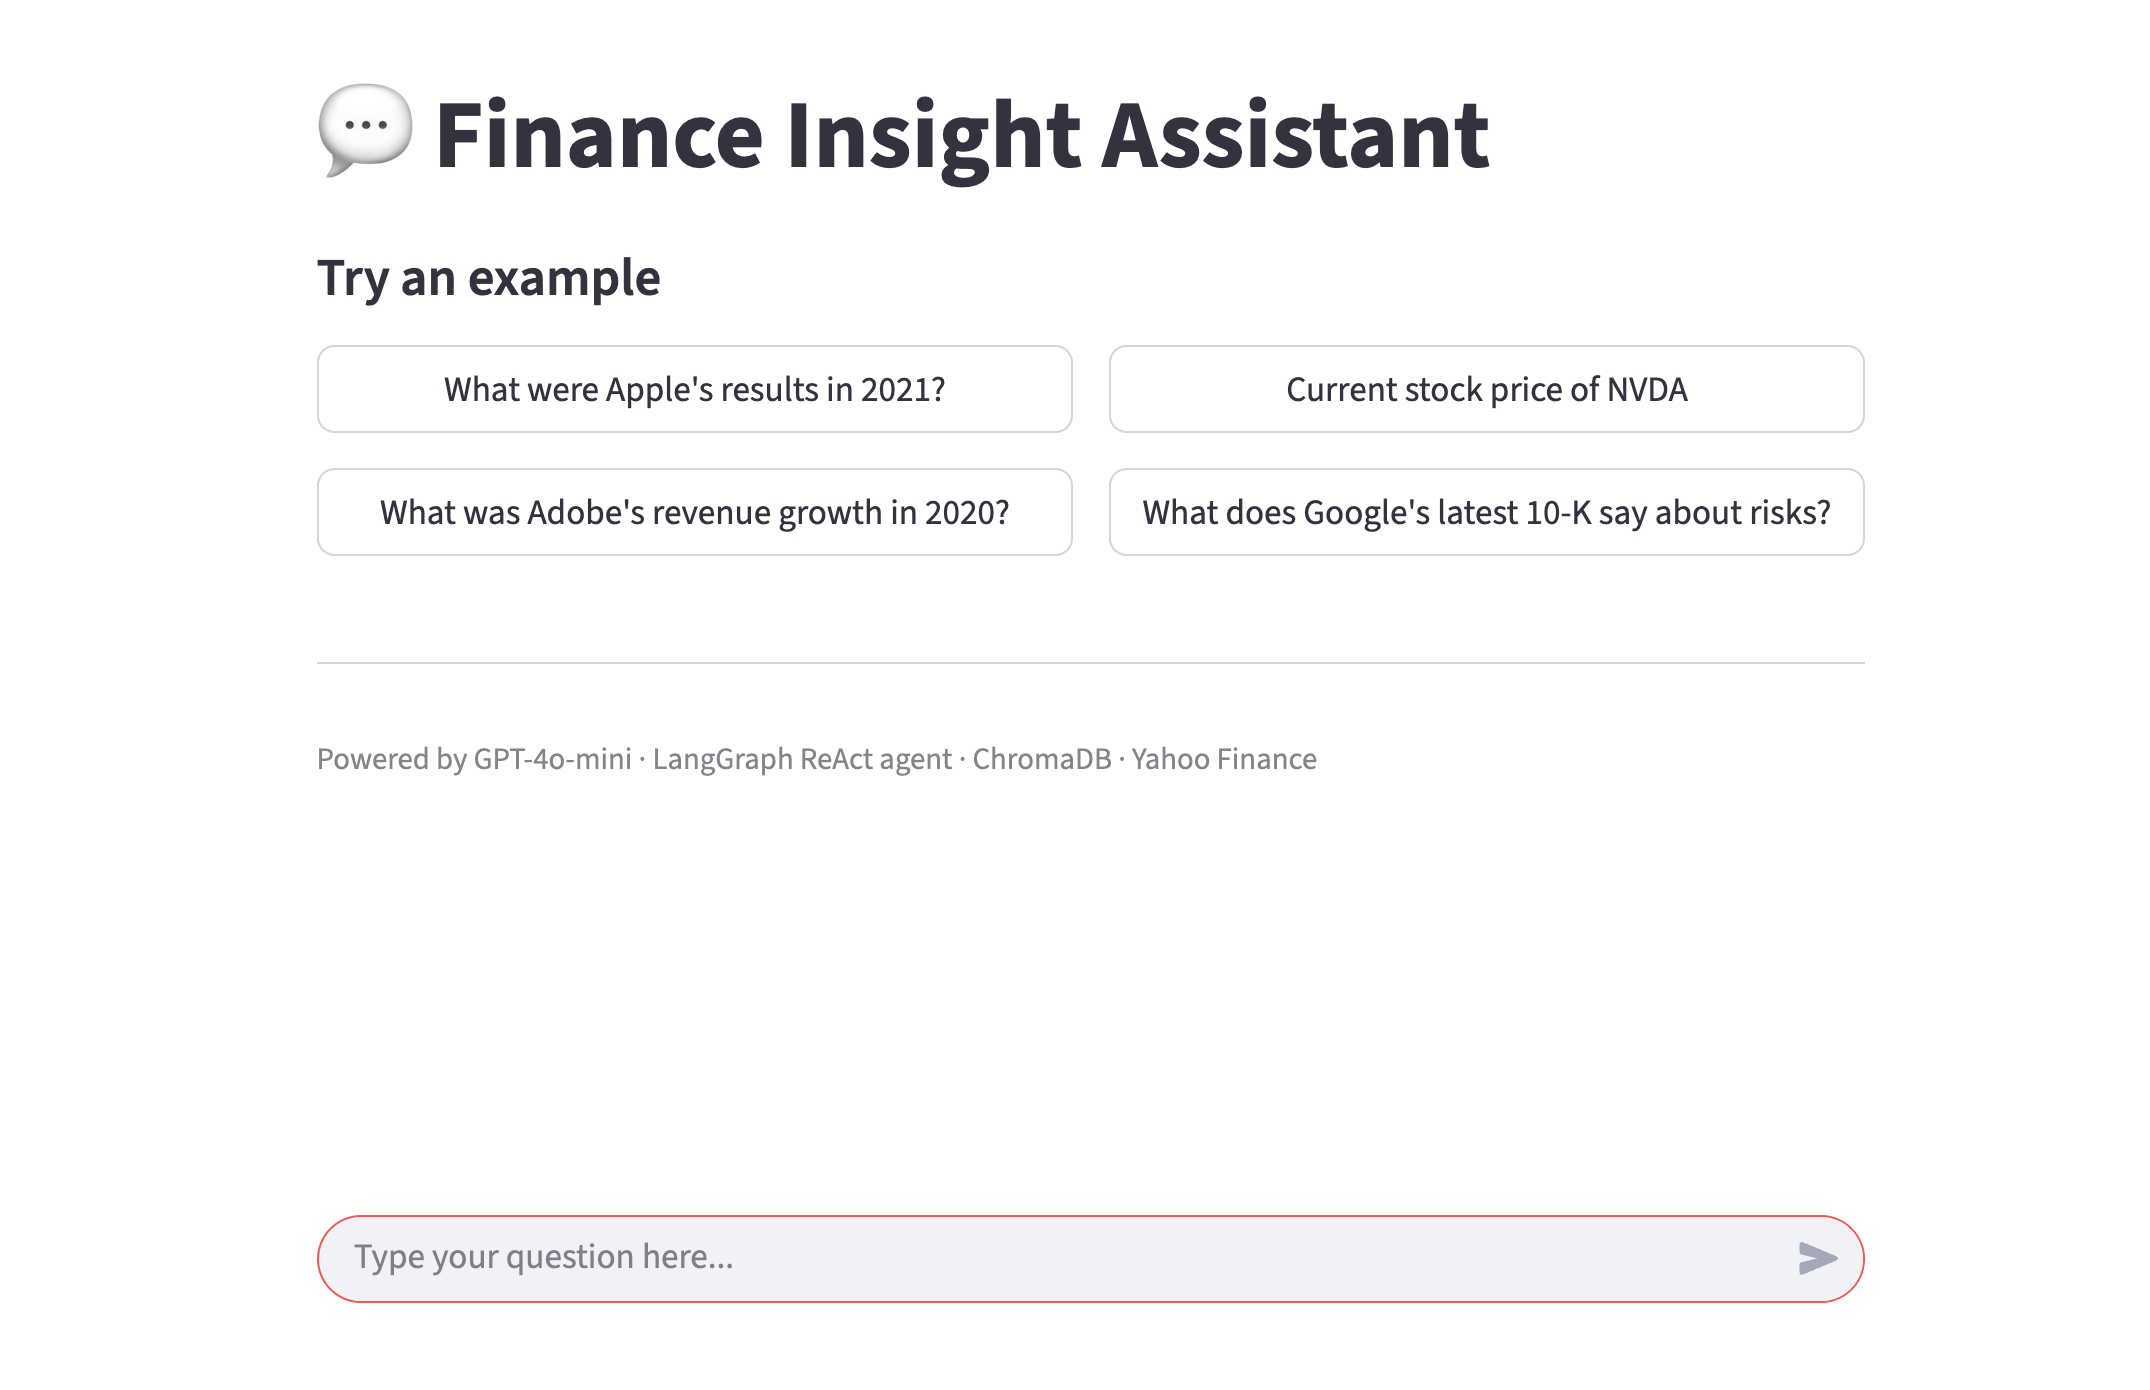
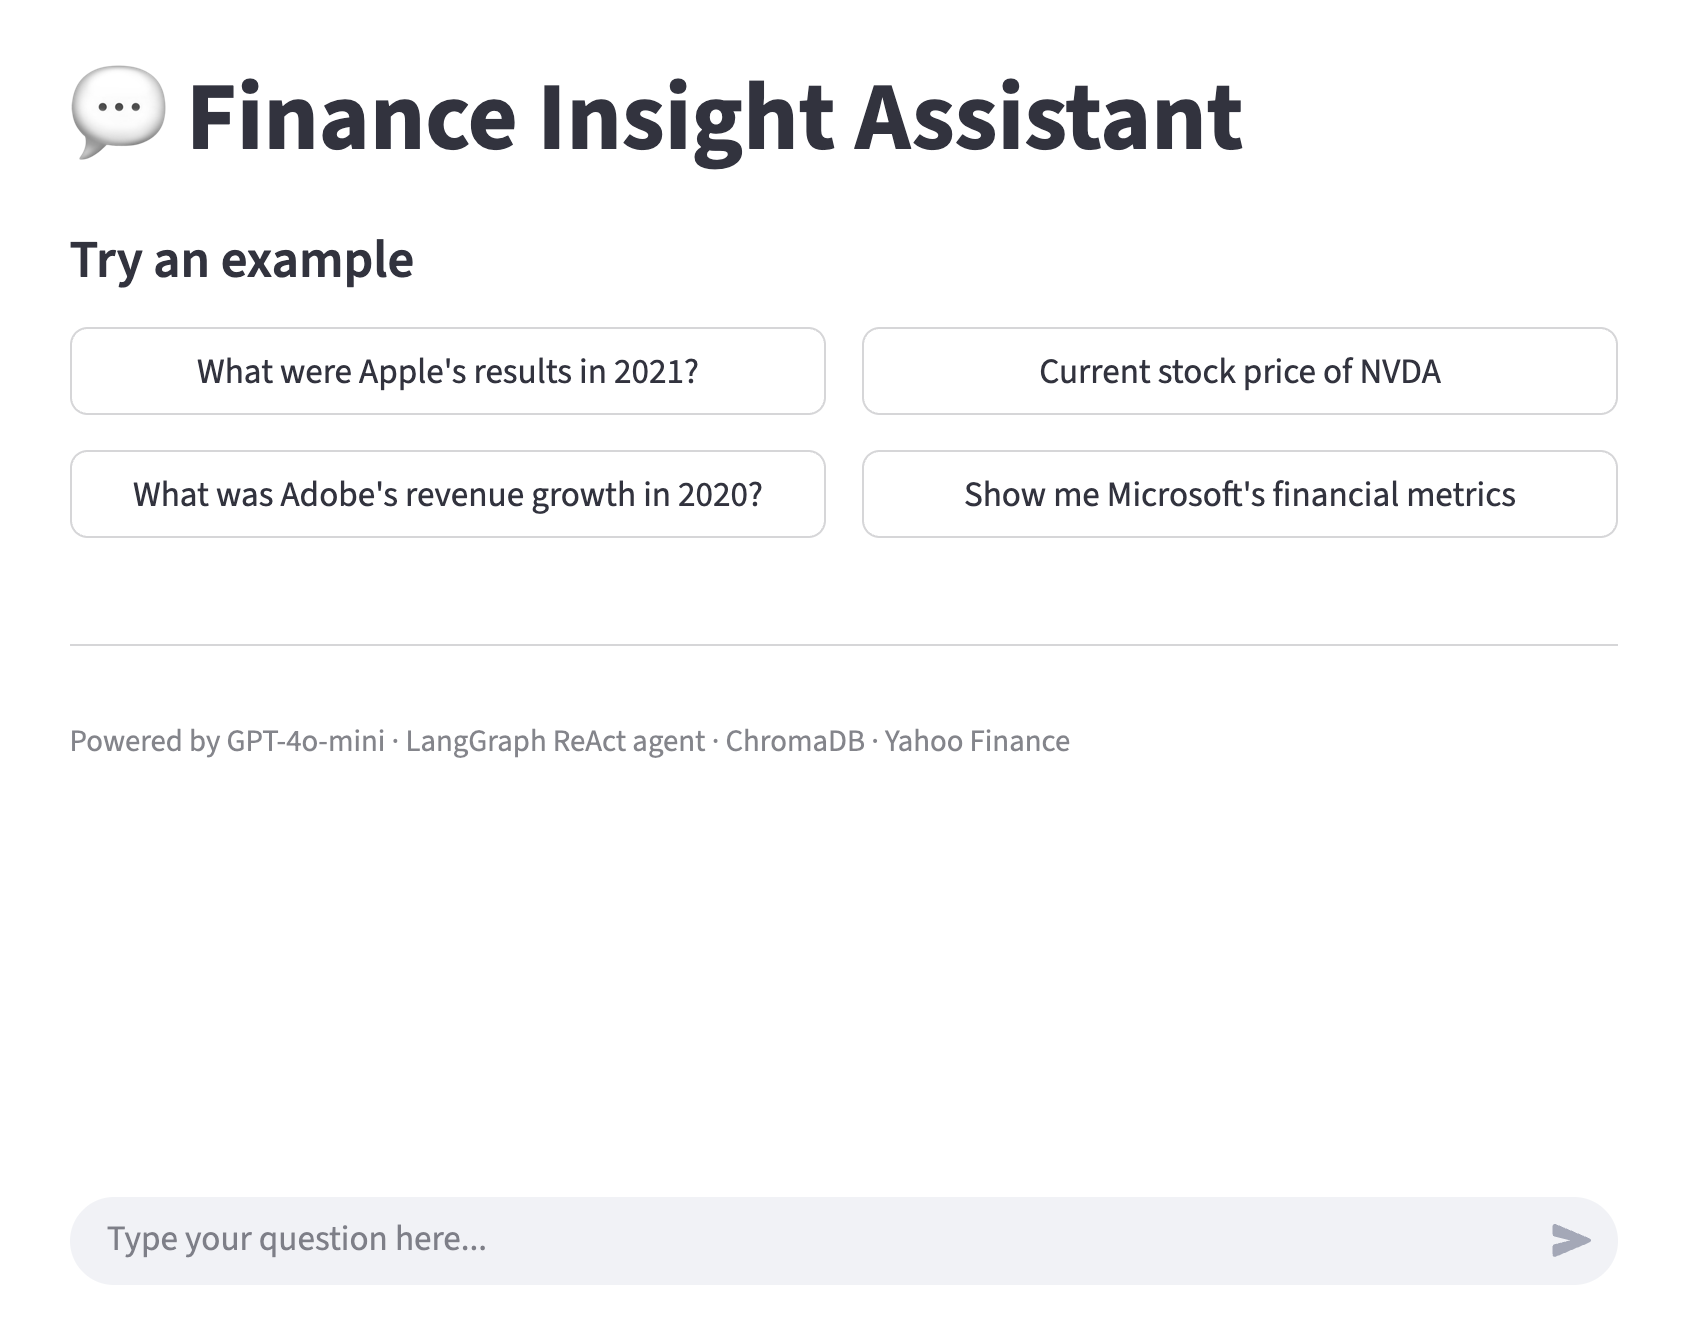
Update README with inline chart generation feature and new screenshot

diff --git a/README.md b/README.md
@@ -4,14 +4,14 @@
 
 ## Overview
 
-The Finance Insight Assistant is a project designed to provide users with quick and accurate answers to their questions related to public companies listed on NASDAQ. It combines a **hybrid RAG pipeline** (dense vector search via ChromaDB + BM25 keyword search via Elasticsearch, fused with Reciprocal Rank Fusion) over a corpus of financial PDFs with live market data tools (Yahoo Finance), orchestrated by a LangGraph ReAct agent over GPT-4o-mini. Users interact with it through a Streamlit chat UI. The stack is built on LangChain / LangGraph, FastAPI, ChromaDB, Elasticsearch, and Streamlit, and ships with a built-in RAGAS evaluation dashboard.
+The Finance Insight Assistant is a project designed to provide users with quick and accurate answers to their questions related to public companies listed on NASDAQ. It combines a **hybrid RAG pipeline** (dense vector search via ChromaDB + BM25 keyword search via Elasticsearch, fused with Reciprocal Rank Fusion) over a corpus of financial PDFs with live market data tools (Yahoo Finance), orchestrated by a LangGraph ReAct agent over GPT-4o-mini. The agent can also generate **inline interactive charts** (price history, multi-stock comparison, financial metrics) directly in the chat. Users interact with it through a Streamlit chat UI. The stack is built on LangChain / LangGraph, FastAPI, ChromaDB, Elasticsearch, Plotly, and Streamlit, and ships with a built-in RAGAS evaluation dashboard.
 
 ## Project Structure
 
 The project is organized into several components:
 
 - **api**: FastAPI service exposing the RAG endpoint (`POST /chatbot`). Runs hybrid retrieval — dense similarity search over ChromaDB and BM25 keyword search over Elasticsearch — then fuses both ranked lists with Reciprocal Rank Fusion (RRF) before passing context to the LLM.
-- **backend-api**: FastAPI service hosting the LangGraph ReAct agent. Routes user questions to the RAG service, Yahoo Finance tools, or direct answers, and exposes `POST /chat` for the web UI.
+- **backend-api**: FastAPI service hosting the LangGraph ReAct agent. Routes user questions to the RAG service, Yahoo Finance tools, inline chart generation, or direct answers, and exposes `POST /chat` for the web UI.
 - **front-chat**: Streamlit user interface for interacting with the assistant, including username/password login.
 - **ingest**: One-shot service that reads preprocessed Markdown files and populates ChromaDB and/or Elasticsearch. Controlled by `POPULATE_TARGET` (`chroma`, `elasticsearch`, `both`, or `none`). Idempotent — already-ingested files are skipped.
 - **preprocess**: Configuration and script (`preprocess.sh`) that converts PDF inputs into Markdown via `docling`.
@@ -109,6 +109,7 @@ The project is organized into several components:
 - Users can interact with the assistant through the Streamlit frontend, asking questions related to NASDAQ-listed companies.
 - The LangGraph ReAct agent in `backend-api` decides per-turn whether to call the RAG service for document-grounded answers, the Yahoo Finance tools (`get_stock_price`, `get_financial_info`) for live market data, or to answer directly.
 - Retrieval-augmented answers are generated by the `api` service using hybrid retrieval: dense vector search over ChromaDB and BM25 keyword search over Elasticsearch, fused with Reciprocal Rank Fusion. This improves retrieval of exact financial terms, figures, and dates compared to dense-only search.
+- The agent can generate **interactive Plotly charts** inline in the chat. Ask for a price history ("Show me Apple's stock price over the last 90 days"), a multi-stock comparison ("Compare Tesla and Rivian over 6 months"), or a financial metrics breakdown ("Show Microsoft's financial metrics"). Charts persist across follow-up messages.
 - Retrieval and answer quality can be measured at any time from the `eval-dashboard` service.
 
 ## Note: ChromaDB persistence and the `PERSIST_DIRECTORY` variable
